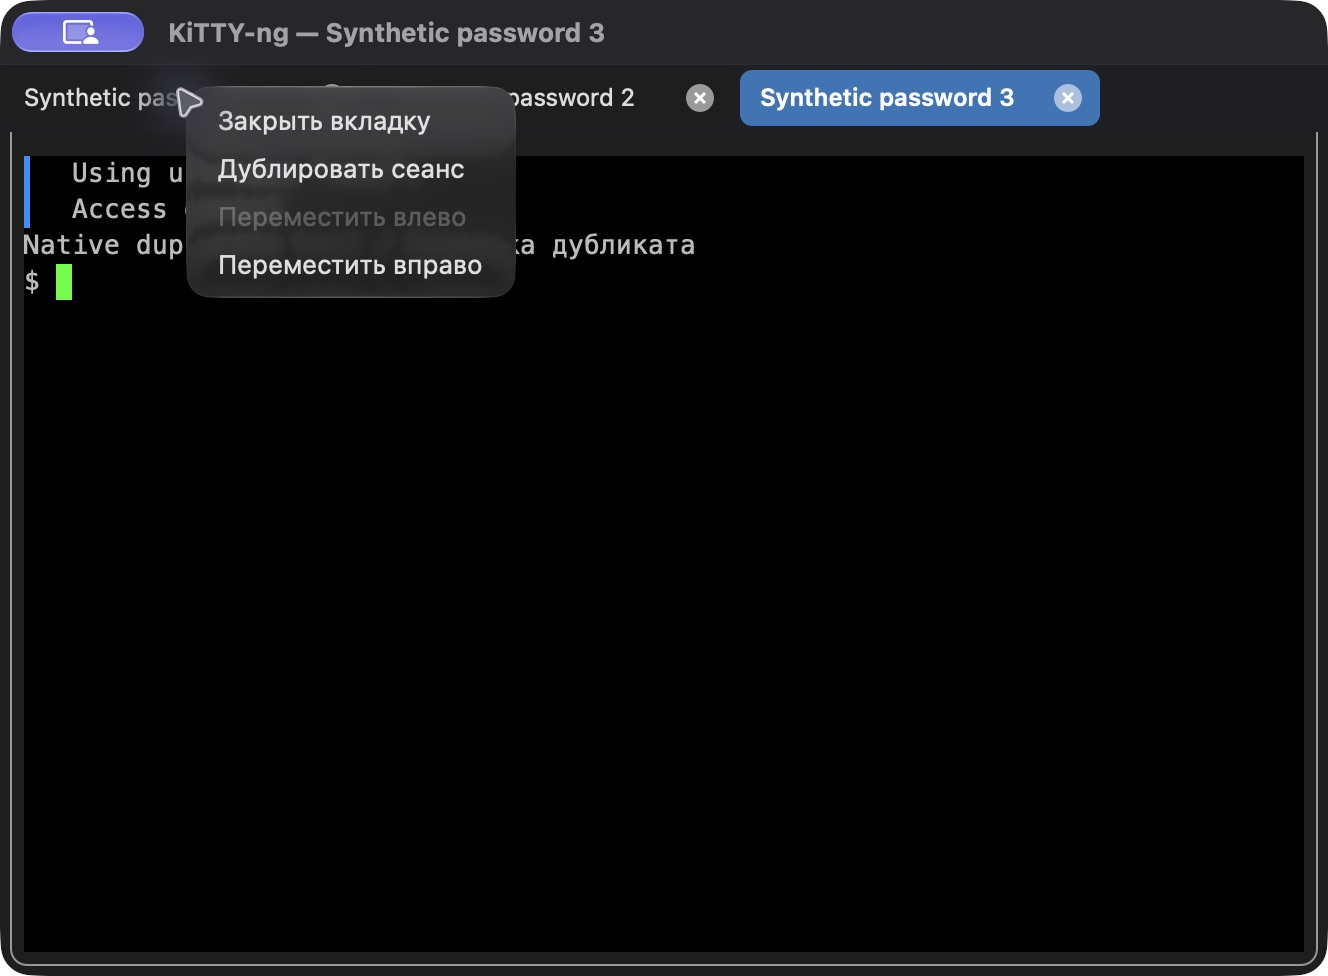
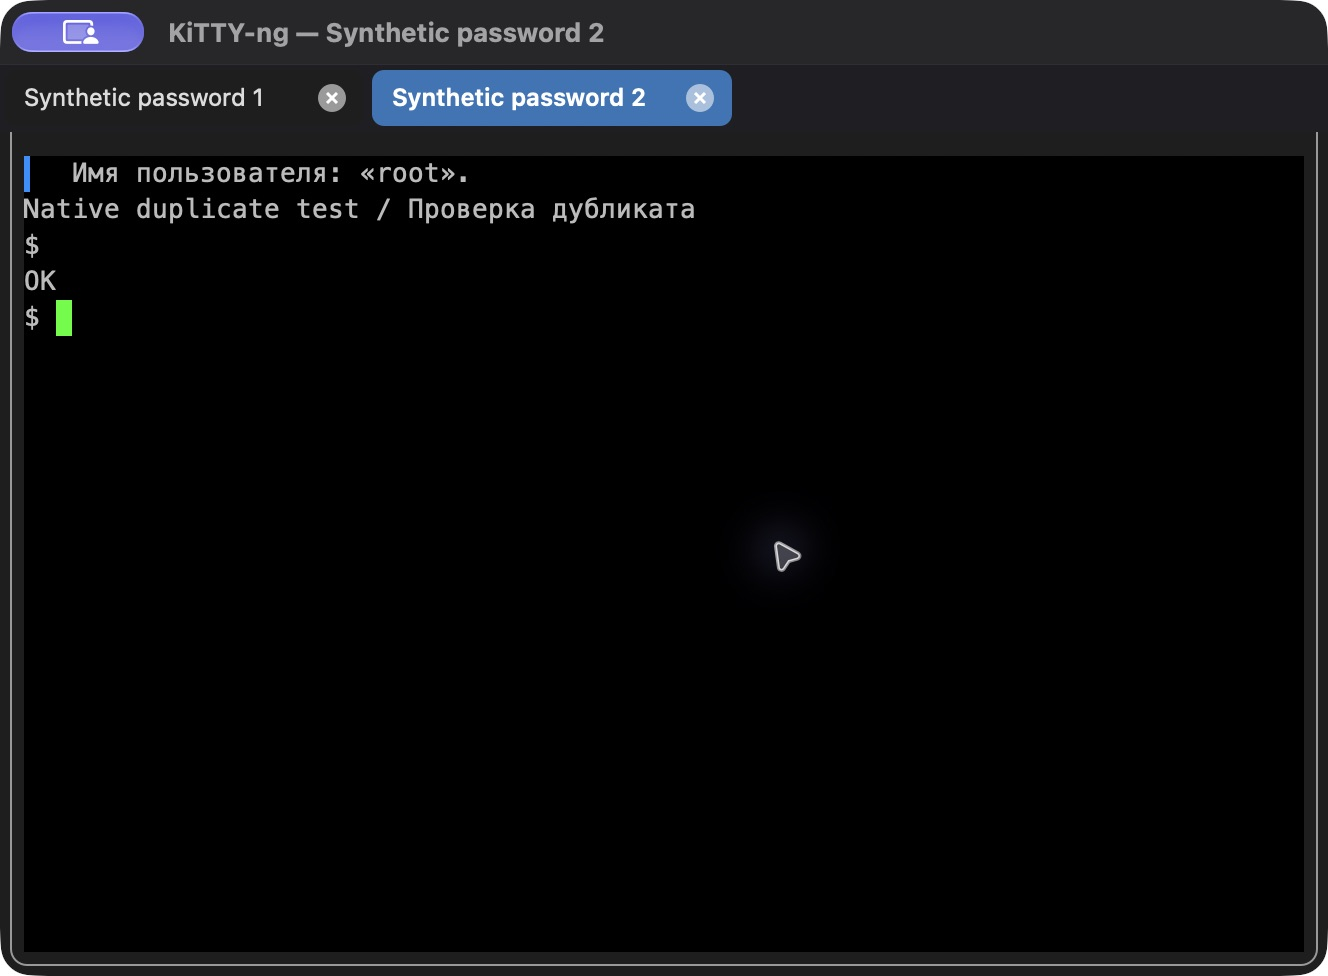
macOS: localize formatted connection diagnostics through shared engine

Changed region(s): [[0.0, 0.0615, 0.8336, 0.3381], [0.5557, 0.5533, 0.6175, 0.584]]

diff --git a/utils/dupprintf.c b/utils/dupprintf.c
@@ -41,7 +41,7 @@
 #include "utils/utils.h"
 #ifdef _WIN32
 extern const char *kr_translate(const char *english);
-#elif defined(KITTY_NG_LINUX)
+#elif defined(KITTY_NG_LINUX) || defined(KITTY_NG_MACOS)
 extern const char *kr_mac_translate(const char *english);
 #endif
 
@@ -94,7 +94,7 @@ char *dupvprintf(const char *fmt, va_list ap)
     size_t size = 0;
 #ifdef _WIN32
     fmt = kr_translate(fmt);
-#elif defined(KITTY_NG_LINUX)
+#elif defined(KITTY_NG_LINUX) || defined(KITTY_NG_MACOS)
     fmt = kr_mac_translate(fmt);
 #endif
     return dupvprintf_inner(NULL, 0, &size, fmt, ap);
